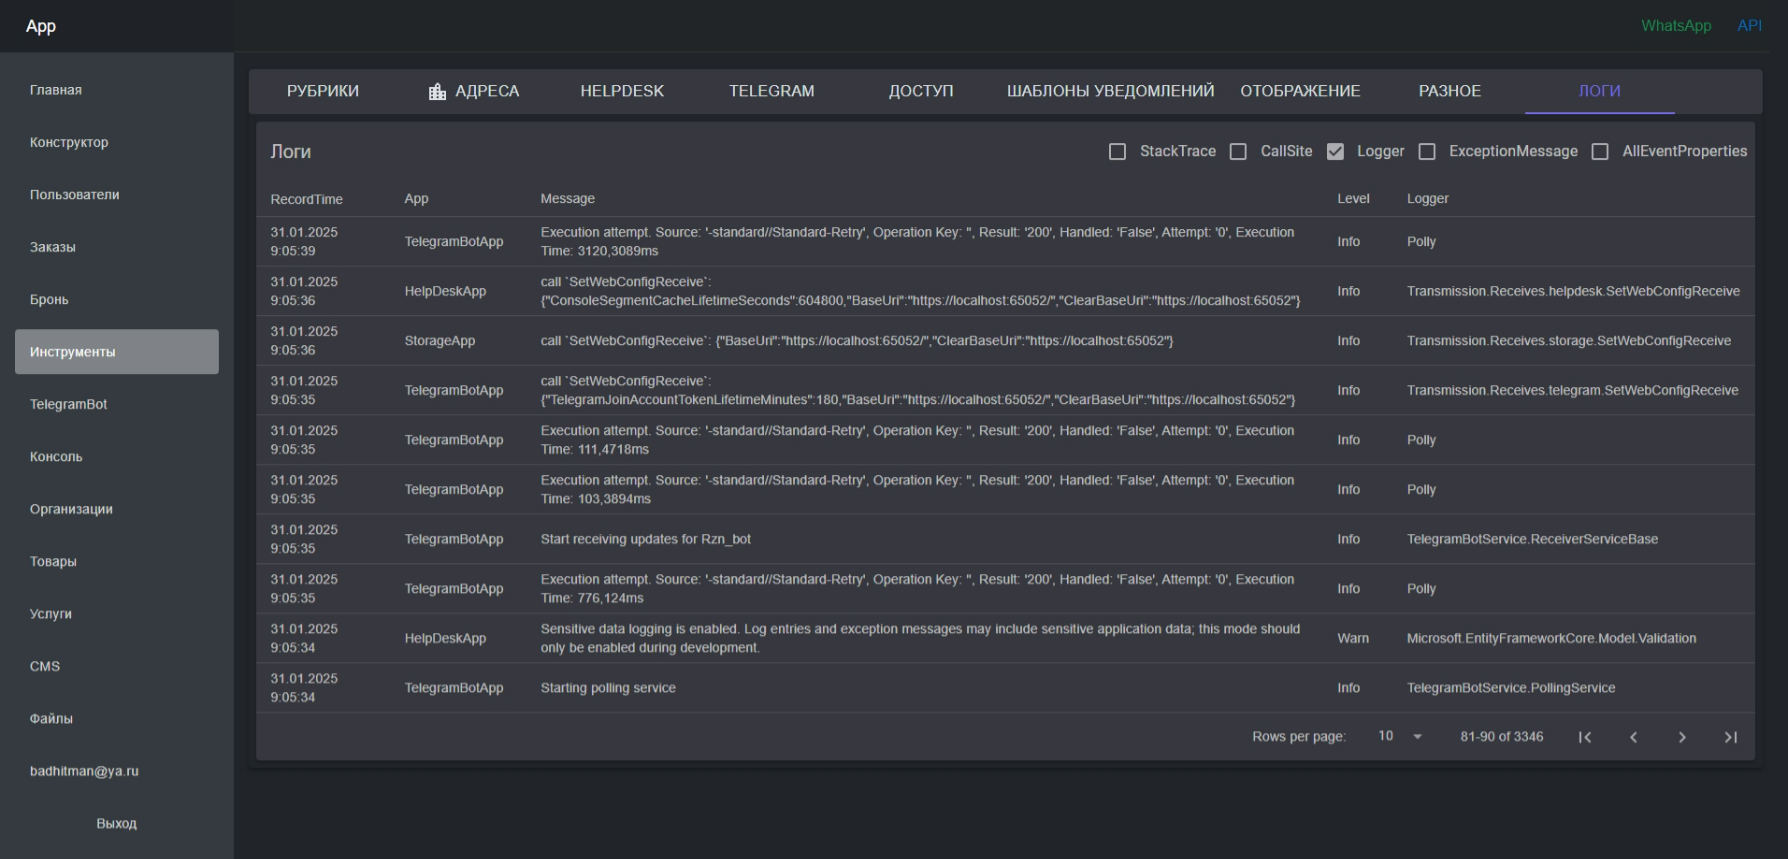
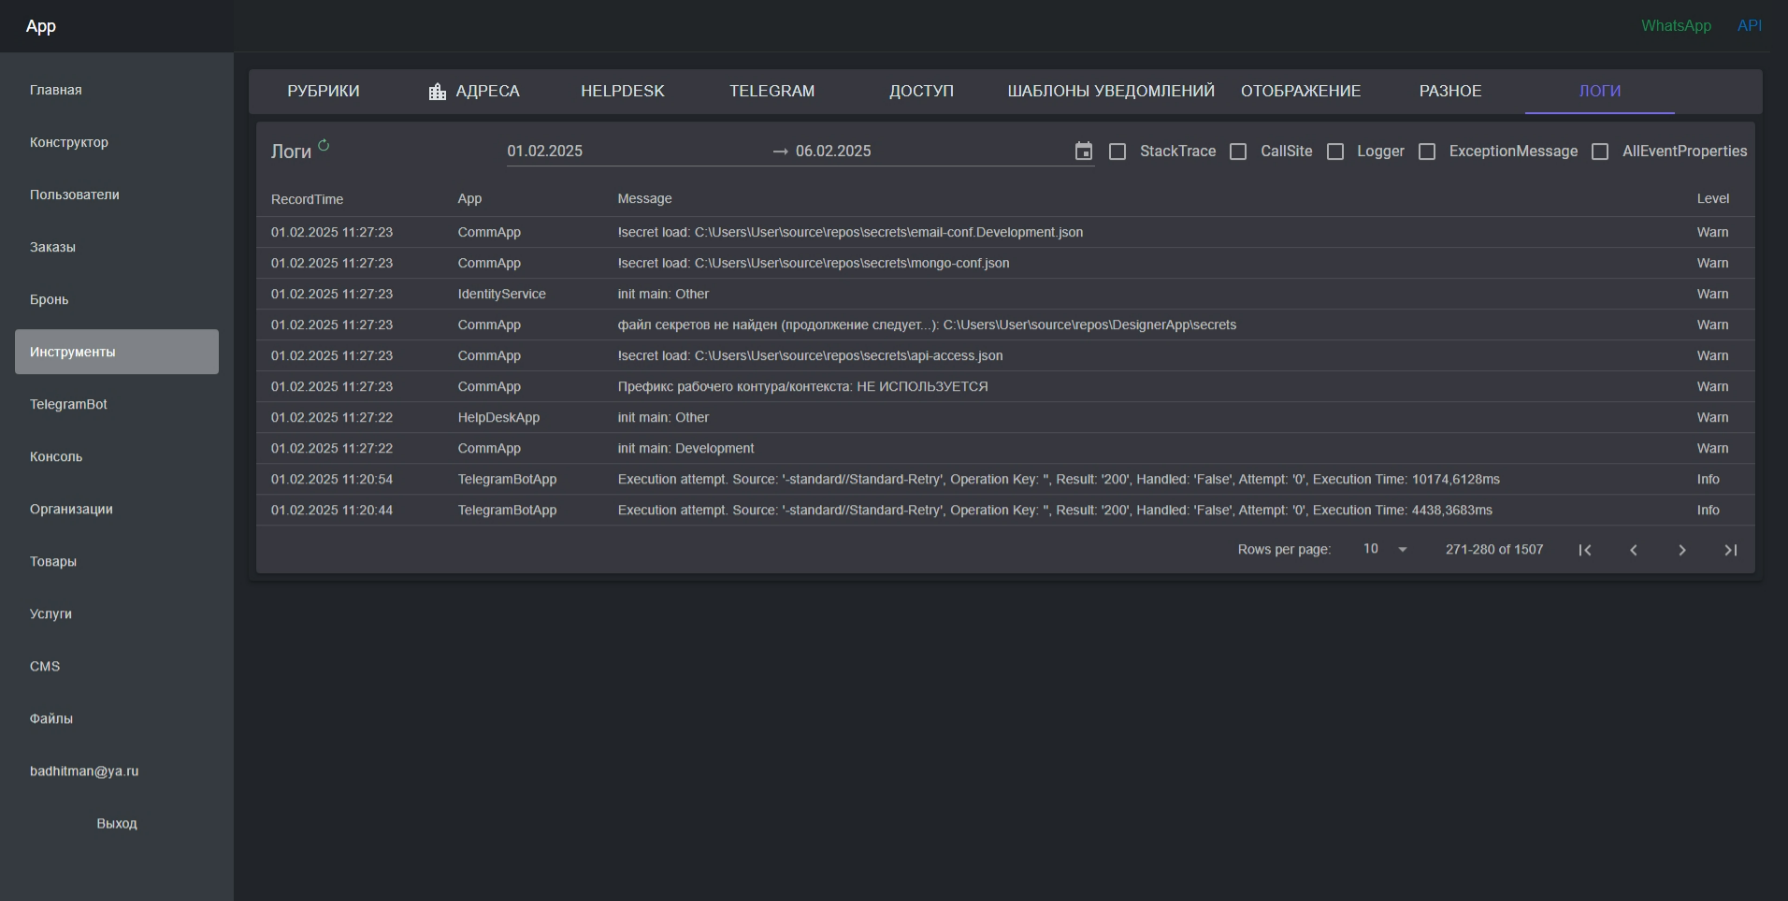
~

diff --git a/StorageService/Services/StorageServiceImpl.cs b/StorageService/Services/StorageServiceImpl.cs
@@ -41,22 +41,38 @@ public class StorageServiceImpl(
         Dictionary<string, int> ContextsPrefixesAvailable = [];
         Dictionary<string, int> LoggersAvailable = [];
 
+        IQueryable<NLogRecordModelDB> QuerySet(IQueryable<NLogRecordModelDB> q)
+        {
+            if (req.StartAt.HasValue)
+            {
+                DateTime _dt = req.StartAt.Value.SetKindUtc();
+                q = q.Where(x => x.RecordTime >= _dt);
+            }
+            if (req.FinalOff.HasValue)
+            {
+                DateTime _dt = req.FinalOff.Value.SetKindUtc().Date.AddHours(23).AddMinutes(59).AddSeconds(59);
+                q = q.Where(x => x.RecordTime <= _dt);
+            }
+            
+            return q;
+        }
+
         await Task.WhenAll([
                 Task.Run(async () => {
                     using NLogsContext ctx = await logsDbFactory.CreateDbContextAsync();
-                    (await ctx.Logs.GroupBy(x => x.RecordLevel).Select(x => new KeyValuePair<string, int>(x.Key, x.Count())).ToListAsync()).ForEach(x => LevelsAvailable.Add(x.Key, x.Value));
+                    (await QuerySet(ctx.Logs.AsQueryable()).GroupBy(x => x.RecordLevel).Select(x => new KeyValuePair<string, int>(x.Key, x.Count())).ToListAsync()).ForEach(x => LevelsAvailable.Add(x.Key, x.Value));
                 }),
                 Task.Run(async () => {
                     using NLogsContext ctx = await logsDbFactory.CreateDbContextAsync();
-                    (await ctx.Logs.GroupBy(x => x.ApplicationName).Select(x => new KeyValuePair<string, int>(x.Key, x.Count())).ToListAsync()).ForEach(x => ApplicationsAvailable.Add(x.Key, x.Value));
+                    (await QuerySet(ctx.Logs.AsQueryable()).GroupBy(x => x.ApplicationName).Select(x => new KeyValuePair<string, int>(x.Key, x.Count())).ToListAsync()).ForEach(x => ApplicationsAvailable.Add(x.Key, x.Value));
                 }),
                 Task.Run(async () => {
                     using NLogsContext ctx = await logsDbFactory.CreateDbContextAsync();
-                    (await ctx.Logs.GroupBy(x => x.ContextPrefix).Select(x => new KeyValuePair<string?, int>(x.Key, x.Count())).ToListAsync()).ForEach(x => ContextsPrefixesAvailable.Add(x.Key ?? "", x.Value));
+                    (await QuerySet(ctx.Logs.AsQueryable()).GroupBy(x => x.ContextPrefix).Select(x => new KeyValuePair<string?, int>(x.Key, x.Count())).ToListAsync()).ForEach(x => ContextsPrefixesAvailable.Add(x.Key ?? "", x.Value));
                 }),
                 Task.Run(async () => {
                     using NLogsContext ctx = await logsDbFactory.CreateDbContextAsync();
-                    (await ctx.Logs.GroupBy(x => x.Logger).Select(x => new KeyValuePair<string?, int>(x.Key, x.Count())).ToListAsync()).ForEach(x => LoggersAvailable.Add(x.Key ?? "", x.Value));
+                    (await QuerySet(ctx.Logs.AsQueryable()).GroupBy(x => x.Logger).Select(x => new KeyValuePair<string?, int>(x.Key, x.Count())).ToListAsync()).ForEach(x => LoggersAvailable.Add(x.Key ?? "", x.Value));
                 }),
             ]);
 
@@ -80,6 +96,17 @@ public class StorageServiceImpl(
 
         using NLogsContext context = await logsDbFactory.CreateDbContextAsync();
         IQueryable<NLogRecordModelDB> q = context.Logs.AsQueryable();
+
+        if (req.Payload.StartAt.HasValue)
+        {
+            DateTime _dt = req.Payload.StartAt.Value.SetKindUtc();
+            q = q.Where(x => x.RecordTime >= _dt);
+        }
+        if (req.Payload.FinalOff.HasValue)
+        {
+            DateTime _dt = req.Payload.FinalOff.Value.SetKindUtc().Date.AddHours(23).AddMinutes(59).AddSeconds(59);
+            q = q.Where(x => x.RecordTime <= _dt);
+        }
 
         if (req.Payload.LevelsFilter is not null && req.Payload.LevelsFilter.Length != 0)
             q = q.Where(x => req.Payload.LevelsFilter.Contains(x.RecordLevel));

diff --git a/BlazorLib/Components/LogsComponent.razor.cs b/BlazorLib/Components/LogsComponent.razor.cs
@@ -17,6 +17,15 @@ public partial class LogsComponent : BlazorBusyComponentBaseModel
     ILogsService LogsRepo { get; set; } = default!;
 
 
+    MudDateRangePicker _picker = default!;
+
+    DateRange _dateRangeBind = new(DateTime.Now.Date, DateTime.Now.AddDays(5).Date);
+    DateRange DateRangeBind
+    {
+        get => _dateRangeBind;
+        set { _dateRangeBind = value; InvokeAsync(table.ReloadServerData); }
+    }
+
     #region columns visible
     bool _AllEventProperties;
     bool AllEventProperties
@@ -85,7 +94,7 @@ public partial class LogsComponent : BlazorBusyComponentBaseModel
     }
     #endregion
 
-    private MudTable<NLogRecordModelDB> table = default!;
+    MudTable<NLogRecordModelDB> table = default!;
 
     async Task ReloadTable()
     {
@@ -107,7 +116,8 @@ public partial class LogsComponent : BlazorBusyComponentBaseModel
         {
             Payload = new()
             {
-
+                StartAt = DateRangeBind.Start,
+                FinalOff = DateRangeBind.End,
             },
             PageNum = state.Page,
             PageSize = state.PageSize,
@@ -115,7 +125,9 @@ public partial class LogsComponent : BlazorBusyComponentBaseModel
         };
 
         TPaginationResponseModel<NLogRecordModelDB> selector = await LogsRepo.LogsSelect(req);
-        
+        TResponseModel<LogsMetadataResponseModel> md = await LogsRepo.MetadataLogs(new() { StartAt = DateRangeBind.Start, FinalOff = DateRangeBind.End });
+
+
         await SetBusy(false, token);
         return new TableData<NLogRecordModelDB>() { TotalItems = selector.TotalRowsCount, Items = selector.Response };
     }

diff --git a/SharedLib/Models/LogsMetadataResponseModel.cs b/SharedLib/Models/LogsMetadataResponseModel.cs
@@ -7,7 +7,7 @@ namespace SharedLib;
 /// <summary>
 /// Метаданные логов: доступные типы данных и общая статистика по ним
 /// </summary>
-public class LogsMetadataResponseModel
+public class LogsMetadataResponseModel : PeriodDatesTimesModel
 {
     /// <inheritdoc/>
     public required Dictionary<string, int> LevelsAvailable { get; set; }

diff --git a/SharedLib/Models/LogsSelectRequestModel.cs b/SharedLib/Models/LogsSelectRequestModel.cs
@@ -7,7 +7,7 @@ namespace SharedLib;
 /// <summary>
 /// LogsSelectRequestModel
 /// </summary>
-public class LogsSelectRequestModel
+public class LogsSelectRequestModel : PeriodDatesTimesModel
 {
     /// <summary>
     /// LevelsFilter
